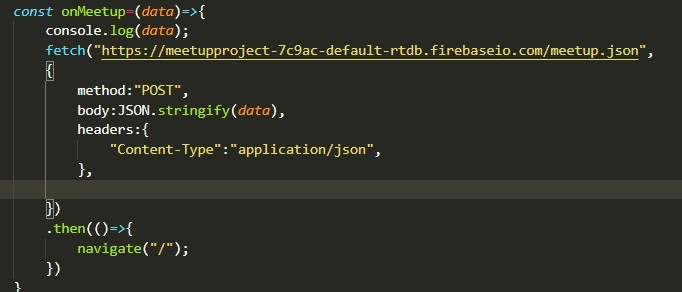
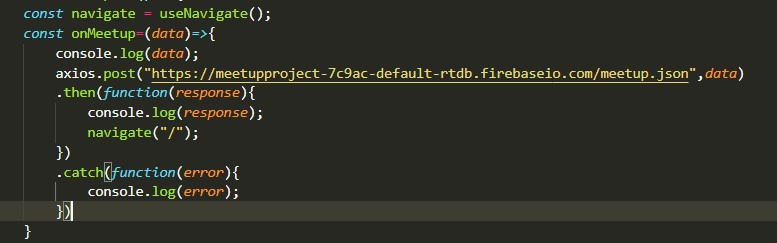
postdata screenshot updated

Changed region(s): [[0.0, 0.0, 0.9545, 1.0]]

diff --git a/src/pages/NewMeetup.js b/src/pages/NewMeetup.js
@@ -1,21 +1,18 @@
 import { Navigate ,useNavigate } from "react-router-dom"
 import NewMeetupForm from "../components/meetups/NewMeetUpForm"
+import axios from "axios";
 
 const Newmeetup = () =>{
     const navigate = useNavigate();
     const onMeetup=(data)=>{
         console.log(data);
-        fetch("https://meetupproject-7c9ac-default-rtdb.firebaseio.com/meetup.json",
-        {
-            method:"POST",
-            body:JSON.stringify(data),
-            headers:{
-                "Content-Type":"application/json",
-            },
-
-        })
-        .then(()=>{
+        axios.post("https://meetupproject-7c9ac-default-rtdb.firebaseio.com/meetup.json",data)
+        .then(function(response){
+            console.log(response);
             navigate("/");
+        })
+        .catch(function(error){
+            console.log(error);
         })
     }
     return(

diff --git a/README.md b/README.md
@@ -83,4 +83,8 @@ Some images of the meet up app
 ### Favourites page
 ![favouritespage](https://github.com/surajshrestha8/todoapp/blob/meetupapp/screenshots/favouritemeetup.jpg?raw=true)
 
+The data is posted to and retrieved from Firebase , which provides cloud storage . It uses NOSQL database for the storage of data.Also considered as a large json file it acts as a real time database.
+
+### Post data to firebase
+![postdata]()
 
